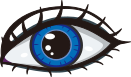
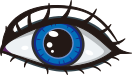
improve pic 2 5

diff --git a/saimin/main.js b/saimin/main.js
@@ -1814,7 +1814,7 @@ document.addEventListener('DOMContentLoaded', function(){
 		SAI_draw_heart(ctx, 0, 0 - cxy / 25 * factor3, 0, cxy / 25 * factor3);
 
 		// 周りの回転する４つの目を描画する。
-		// 人間は、透過して回転する複数の目に弱いらしい。
+		// 人間は、透過して回転する複数の目に弱いらしい。目はたれ目がいいだろう。
 		const N = 4;
 		let radian = factor * 1.3;
 		ctx.globalAlpha = 0.55; // 透過する。
